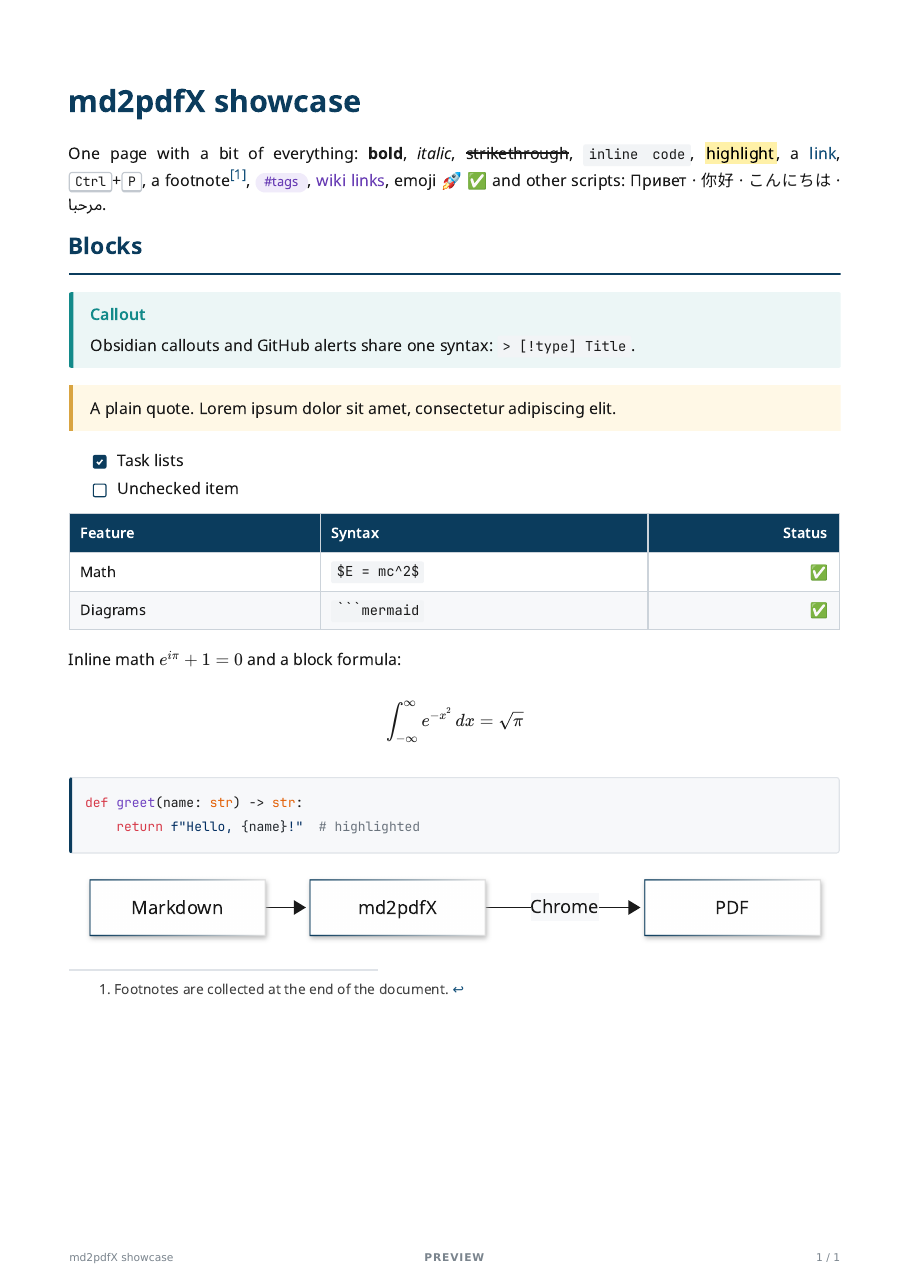
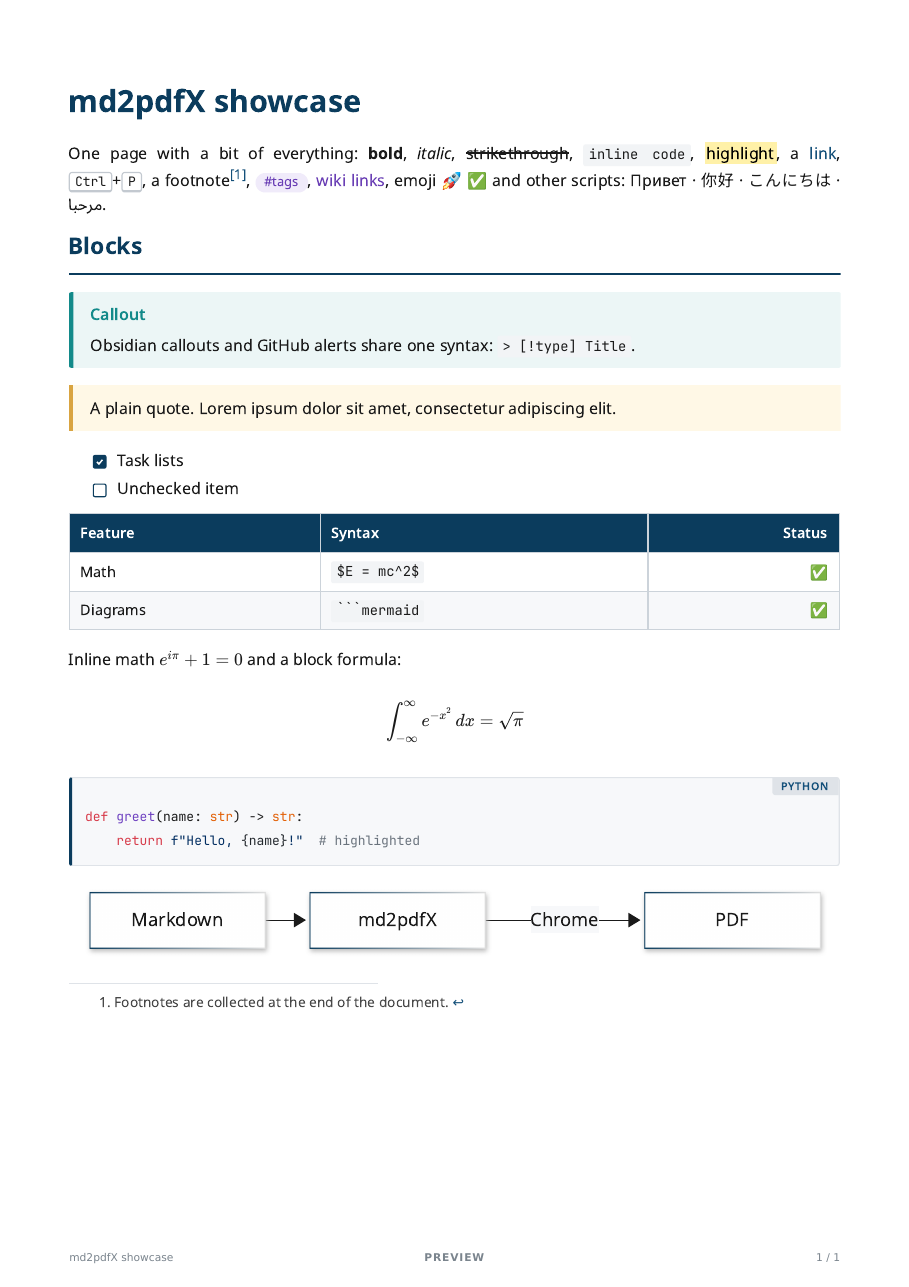
feat(diagrams): enhance C4 diagram text visibility and styling; update theme language display for code blocks

diff --git a/src/themes/index.js b/src/themes/index.js
@@ -28,7 +28,10 @@ export const MONO = `"JetBrainsMono Nerd Font", ${FALLBACK}, monospace`;
 //   highlight  — выделение ==текста==, заметки на диаграммах;
 //   danger     — ошибки и критичное;
 //   series     — цвета рядов графиков и секторов pie, по порядку.
-// diagramFont — шрифт диаграмм; mermaid — переопределения выведенных цветов.
+// diagramFont — шрифт диаграмм; mermaid — переопределения выведенных цветов;
+// c4 — заливки элементов C4: { person, system, external }, по умолчанию
+// accent, accentText и muted. Текст на светлой заливке diagrams.js делает
+// цвета текста темы, на тёмной он белый.
 
 // Цвета ветвей mindmap и разделов timeline: [фон, текст] → cScaleN и
 // cScaleLabelN.
@@ -70,6 +73,7 @@ export const THEMES = {
       dropShadow: 'none', useGradient: false,
       edgeLabelBackground: '#e6e6e6', activeTaskBkgColor: '#d0d0d0',
     },
+    c4: { person: '#ffffff', system: '#ffffff', external: '#e6e6e6' },
     // Не меньше 20 мм слева (30 — для документов долгого хранения), 10 справа,
     // 20 сверху и снизу.
     margin: { top: '20mm', bottom: '20mm', left: '30mm', right: '10mm' },
@@ -87,6 +91,8 @@ export const THEMES = {
       series: ['#5c7a00', '#0a0a0a', '#c6ff00', '#8a8a8a'],
     },
     diagramFont: MONO,
+    // Лайм и белый под чёрной рамкой: тёмные блоки съедают краску.
+    c4: { person: '#c6ff00', system: '#ffffff', external: '#f3f3f3' },
     mermaid: {
       secondaryColor: '#c6ff00', edgeLabelBackground: '#c6ff00',
       actorBkg: '#0a0a0a', actorTextColor: '#ffffff',
@@ -119,6 +125,7 @@ export const THEMES = {
       series: ['#5e81ac', '#bf616a', '#a3be8c', '#d08770', '#b48ead', '#88c0d0'],
     },
     diagramFont: SANS,
+    c4: { person: '#5e81ac', system: '#88c0d0', external: '#e5e9f0' },
     mermaid: {
       primaryColor: '#eceff4', primaryBorderColor: '#81a1c1', lineColor: '#4c566a',
       // Ветви mindmap, разделы timeline, ряды radar, venn и treemap — Aurora и
@@ -144,6 +151,7 @@ export const THEMES = {
       series: ['#458588', '#d65d0e', '#98971a', '#b16286', '#689d6a', '#d79921'],
     },
     diagramFont: MONO,
+    c4: { person: '#d79921', system: '#458588', external: '#ebdbb2' },
     mermaid: {
       primaryColor: '#ebdbb2', primaryBorderColor: '#7c6f64', lineColor: '#504945',
       // Ветви mindmap, разделы timeline, ряды radar, venn и treemap. Подпись
@@ -177,9 +185,10 @@ export function footerStyle(theme) {
 // состояний задач Ганта, и активная выходит белой без рамки, а столбцы
 // xychart красятся от primaryColor — белым по белому: всё это задано явно.
 export function mermaidConfig(theme) {
-  const { palette: p, diagramFont, mermaid } = THEMES[theme];
+  const { palette: p, diagramFont, mermaid, c4 } = THEMES[theme];
   return {
     theme: 'base',
+    c4: c4Config(p, diagramFont, c4),
     themeVariables: {
       fontFamily: diagramFont, titleColor: p.text,
       primaryColor: p.paper, primaryTextColor: p.text, primaryBorderColor: p.accent,
@@ -204,4 +213,24 @@ export function mermaidConfig(theme) {
       ...mermaid,
     },
   };
+}
+
+// C4 рисуется не по themeVariables, а по своему разделу настроек: цвета и
+// шрифт каждого типа элемента отдельно.
+const C4_TYPES = ['person', 'system', 'system_db', 'system_queue', 'container', 'container_db',
+  'container_queue', 'component', 'component_db', 'component_queue'];
+
+function c4Config(p, font, colors = {}) {
+  const fill = { person: p.accent, system: p.accentText, external: p.muted, ...colors };
+  const config = { boundaryFontFamily: font, messageFontFamily: font };
+  for (const type of C4_TYPES) {
+    for (const external of [false, true]) {
+      const key = (external ? 'external_' : '') + type;
+      const bg = external ? fill.external : type === 'person' ? fill.person : fill.system;
+      Object.assign(config, {
+        [key + '_bg_color']: bg, [key + '_border_color']: p.accent, [key + 'FontFamily']: font,
+      });
+    }
+  }
+  return config;
 }

diff --git a/src/diagrams.js b/src/diagrams.js
@@ -22,6 +22,7 @@ const LAYOUT = /^\s*(flowchart|graph|erDiagram|classDiagram|stateDiagram(-v2)?)\
 // (null, если документ и так альбомный). Мерить колонку по самой странице
 // нельзя: до печати её ширина — ширина окна, а не листа.
 window.fitDiagrams = async (sources, sheets) => {
+  c4Text();
   const room = sheet => sheet && { width: sheet.width * PX, height: (sheet.height - 2) * PX };
   const normal = room(sheets.normal), wide = room(sheets.wide);
   const boxes = [...document.querySelectorAll('pre.mermaid')];
@@ -126,6 +127,20 @@ function shrink(box, overflow) {
 function blocks() {
   return [...document.body.children].flatMap(e =>
     e.matches('.chapter') ? [...e.children] : e.matches('script') ? [] : [e]);
+}
+
+// Текст элементов C4 mermaid всегда красит белым, и на светлой заливке темы
+// (src/themes/index.js) его не видно: там он — цвета текста документа.
+function c4Text() {
+  const dark = getComputedStyle(document.body).color;
+  for (const shape of document.querySelectorAll('pre.mermaid .c4-shape')) {
+    const fill = [...shape.querySelectorAll('.label-container, .label-container > *')]
+      .find(e => e.style.fill)?.style.fill;
+    const [r, g, b] = (fill?.match(/\d+(\.\d+)?/g) ?? []).map(Number);
+    if (r === undefined || 0.2126 * r + 0.7152 * g + 0.0722 * b < 150) continue;
+    for (const e of shape.querySelectorAll('.label, .label text'))
+      e.style.setProperty(e.tagName === 'text' ? 'fill' : 'color', dark, 'important');
+  }
 }
 
 // Вступление прямо над диаграммой и заголовки над ним, снизу вверх: их

diff --git a/src/themes/vectorheart.css b/src/themes/vectorheart.css
@@ -99,6 +99,16 @@ pre:not(.mermaid) {
   padding-left: 4mm; clip-path: none;
 }
 pre:not(.mermaid)::before { content: none; }
+/* Язык кода — чёрной вкладкой с лаймовой подписью в левом верхнем углу,
+   как шапка таблицы. */
+pre[data-lang] { padding-top: 7.5mm; }
+pre[data-lang]::after {
+  content: "// " attr(data-lang); position: absolute; top: 0; left: 0;
+  padding: 0.5mm 2.5mm 0.7mm 2mm;
+  font: 700 7.5pt var(--font-mono); letter-spacing: 0.06em; text-transform: uppercase;
+  color: var(--highlight); background: var(--accent);
+  clip-path: polygon(0 0, 100% 0, 100% calc(100% - 1.5mm), calc(100% - 1.5mm) 100%, 0 100%);
+}
 
 th { font-family: var(--font-mono); text-transform: uppercase; font-size: 8.5pt; letter-spacing: 0.04em; }
 

diff --git a/src/themes/nord.css b/src/themes/nord.css
@@ -48,6 +48,7 @@ hr { height: 0.5mm; border: none; background: linear-gradient(90deg, #ffffff, #8
 pre:not(.mermaid), blockquote, .callout { box-shadow: var(--card-shadow); border-radius: var(--radius); }
 pre:not(.mermaid) { position: relative; padding: 4mm; }
 /* Язык кода — плашкой в правом верхнем углу. */
+pre[data-lang] { padding-top: 6.5mm; }
 pre[data-lang]::before {
   content: attr(data-lang); position: absolute; top: 0; right: 0;
   padding: 0.4mm 2.2mm; border-bottom-left-radius: var(--radius);

diff --git a/src/themes/classic.css b/src/themes/classic.css
@@ -13,3 +13,12 @@
   --tag-bg: #f0ebfa;
   --embed-border: 3px solid #b9a6e0;
 }
+
+/* Язык кода — подписью в правом верхнем углу блока. */
+pre[data-lang] { position: relative; padding-top: 6mm; }
+pre[data-lang]::before {
+  content: attr(data-lang); position: absolute; top: 0; right: 0;
+  padding: 0.3mm 2.2mm; border-bottom-left-radius: 3px;
+  font: 600 7pt var(--font-sans); letter-spacing: 0.06em; text-transform: uppercase;
+  color: var(--accent-text); background: #dfe3e8;
+}

diff --git a/CHANGELOG.md b/CHANGELOG.md
@@ -14,6 +14,9 @@
 - Столбцы и линии графиков `xychart` во всех темах видны: раньше они
   выходили почти белыми на белом или сером фоне. Круги `venn` — разных
   цветов темы, а не оттенки одного.
+- Диаграммы C4 в цветах и шрифте темы, а не в стандартных синих mermaid.
+  Текст на светлых блоках — тёмный: в ГОСТ блоки белые в чёрной рамке, в
+  vectorheart — лаймовый человек и белые системы.
 - Темы собраны на общих переменных: палитра темы (`src/themes/index.js`)
   задаёт цвета страницы, диаграмм и колонтитула, а `style.css` выводит из неё
   оформление элементов. CSS темы только переопределяет переменные и дописывает
@@ -30,8 +33,10 @@
 - Диаграмма, которой немного не хватает места до конца листа, ужимается (не
   мельче 85 % своего размера) и остаётся на нём, а не уходит на следующий лист
   вместе с заголовком, оставляя этот почти пустым.
-- Блок кода с указанным языком получает `data-lang`: тема может подписать им
-  блок (`attr(data-lang)`).
+- Язык блока кода (` ```python `) подписан на блоке во всех темах, кроме
+  ГОСТ: в Classic и Nord — плашкой справа вверху, в vectorheart — чёрной
+  вкладкой «// PYTHON», в Gruvbox — в заголовке окна терминала. Язык — в
+  атрибуте `data-lang` блока `<pre>`.
 - Ссылки `[текст](файл)` на локальные файлы ищутся как в Obsidian: от
   документа, от корня хранилища, затем по имени во всём хранилище — раньше
   ссылка на файл в подпапке, записанная одним именем, вела во временный
